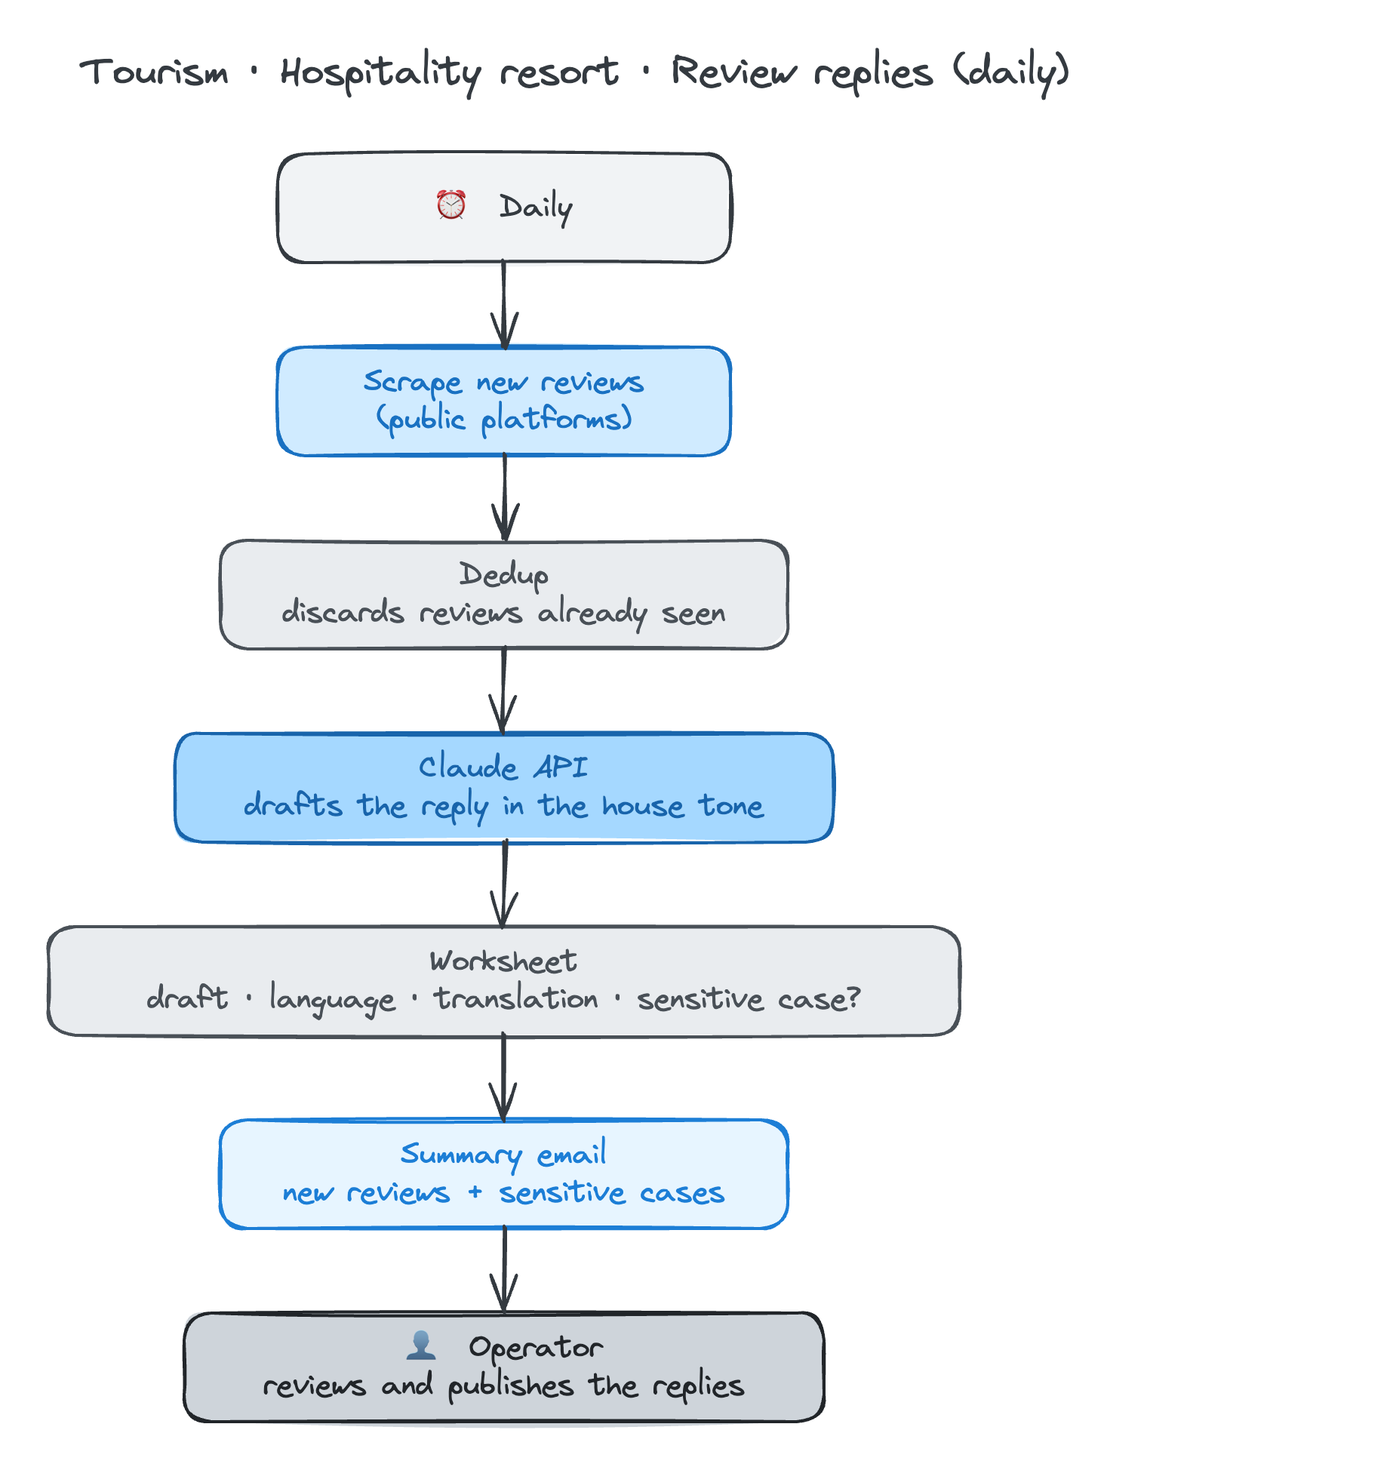
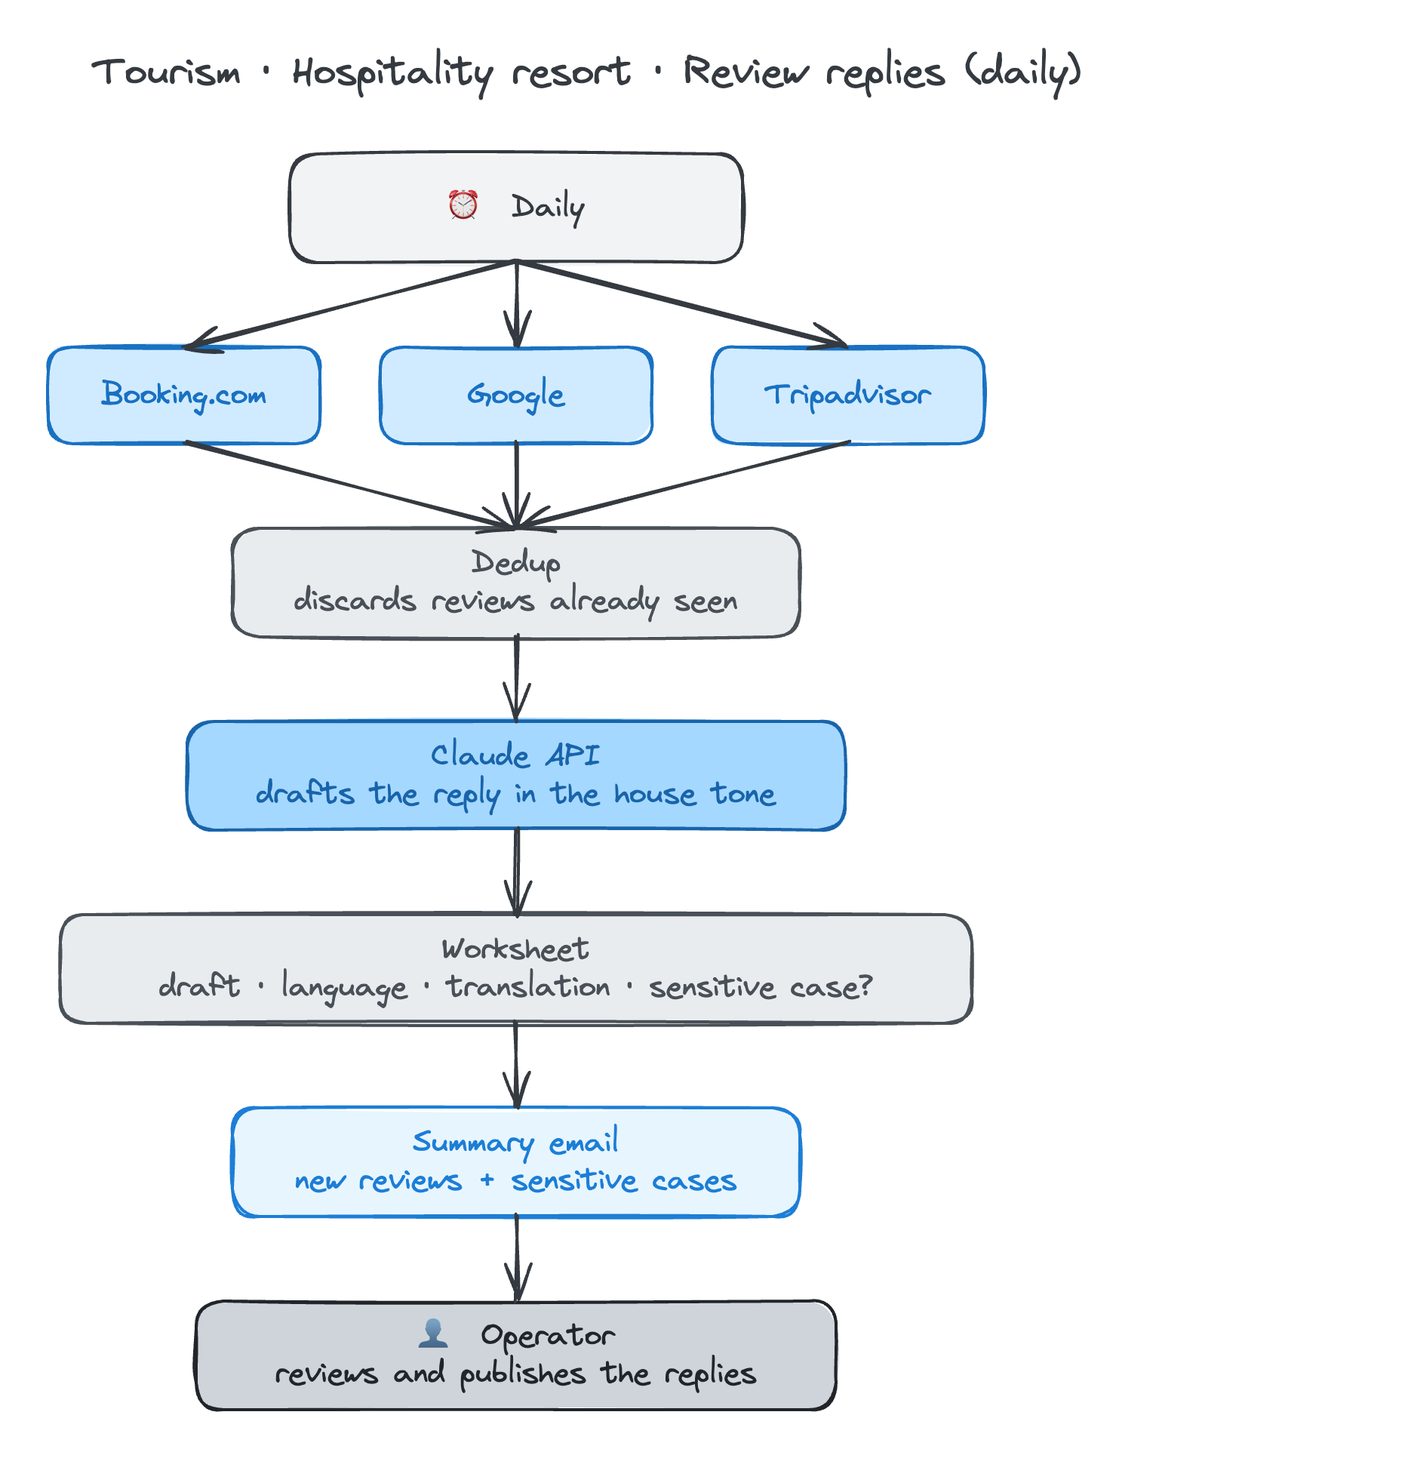
fix(landing): connettori Method, slogan/hero, Chiavi in mano, 3 fonti recensioni
- method.tsx: connettori tratteggiati ricalcolati su grid-cols-3 fisse,
  agganciati esattamente al bordo dei cerchi (prima "galleggiavano" scollegati)
- footer tagline EN + sottotitolo hero riscritti su richiesta di Federico
- "Chiave in mano" -> "Chiavi in mano" (titolo binario offerta + meta /servizi)
- caso risposte-recensioni-ai: testo e diagramma ora dicono esplicitamente
  Booking/Google/Tripadvisor come le 3 fonti monitorate (diagramma giornaliero
  ridisegnato hub-and-spoke)
- report-pelle-automatico: featured true (era false, per questo in home si
  vedevano solo 5/6 casi)
- pubblicato testo+featured via Sanity MCP (SANITY_API_WRITE_TOKEN locale non
  ha update su caseStudy, vedi PLAN.md); upload del nuovo PNG diagramma resta
  bloccato, PNG pronti in locale

diff --git a/components/landing/method.tsx b/components/landing/method.tsx
@@ -1,4 +1,3 @@
-import { Fragment } from "react";
 import type { Locale } from "@/lib/i18n";
 import { landing } from "@/lib/landing-content";
 
@@ -13,31 +12,40 @@ export function Method({ lang }: { lang: Locale }) {
 
         {/* Desktop: 3 nodi collegati da una linea di flusso, non 3 card isolate
             (riusa il linguaggio visivo di globals.css .wire, disegnato per
-            l'hero e mai usato). Ogni segmento è un SVG a sé, dimensionato dal
-            proprio spazio flex: nessuna percentuale calcolata a mano. */}
-        <div className="hidden md:flex md:items-start">
-          {steps.map((step, i) => (
-            <Fragment key={step.n}>
-              <div className="min-w-0 flex-1">
-                <div className="mb-4 flex h-12 w-12 items-center justify-center rounded-full border border-white/15 bg-white/[0.06] font-display text-lg font-semibold text-peri">
-                  {step.n}
-                </div>
-                <h3 className="mb-2 text-xl font-bold">{step.title[lang]}</h3>
-                <p className="max-w-[32ch] leading-relaxed text-white/65">
-                  {step.body[lang]}
-                </p>
+            l'hero e mai usato). Griglia a colonne UGUALI (non flex-1: con
+            colonne di larghezza diversa i connettori, messi in un elemento a
+            parte tra le colonne, finivano scollegati dai cerchi veri e
+            sembravano "tagliati"). Con colonne di uguale ampiezza il centro
+            di ogni cerchio è sempre a `(colonna * larghezza) + 1.5rem` (metà
+            di h-12/w-12): i due connettori sono quindi calcolati per
+            estendersi esattamente dal bordo destro di un cerchio al bordo
+            sinistro del successivo, niente di più. */}
+        <div className="relative hidden md:grid md:grid-cols-3">
+          {steps.map((step) => (
+            <div key={step.n} className="min-w-0 pr-6">
+              <div className="mb-4 flex h-12 w-12 items-center justify-center rounded-full border border-white/15 bg-white/[0.06] font-display text-lg font-semibold text-peri">
+                {step.n}
               </div>
-              {i < steps.length - 1 && (
-                <svg
-                  viewBox="0 0 100 4"
-                  preserveAspectRatio="none"
-                  className="mt-6 h-1 w-full min-w-8 flex-1"
-                  aria-hidden
-                >
-                  <line x1="0" y1="2" x2="100" y2="2" className="wire" />
-                </svg>
-              )}
-            </Fragment>
+              <h3 className="mb-2 text-xl font-bold">{step.title[lang]}</h3>
+              <p className="max-w-[32ch] leading-relaxed text-white/65">
+                {step.body[lang]}
+              </p>
+            </div>
+          ))}
+          {steps.slice(0, -1).map((_, i) => (
+            <svg
+              key={`wire-${i}`}
+              viewBox="0 0 100 4"
+              preserveAspectRatio="none"
+              aria-hidden
+              className="absolute top-6 h-1"
+              style={{
+                left: `calc(${i} * 100% / 3 + 3rem)`,
+                width: `calc(100% / 3 - 3rem)`,
+              }}
+            >
+              <line x1="0" y1="2" x2="100" y2="2" className="wire" />
+            </svg>
           ))}
         </div>
 

diff --git a/lib/landing-content.ts b/lib/landing-content.ts
@@ -92,13 +92,13 @@ export const landing = {
     titleMark: { it: "al lavoro", en: "work" },
     titleAfter: { it: "nella tua azienda.", en: "for your business." },
     body: {
-      it: "Costruiamo soluzioni concrete per smettere di perdere tempo e clienti. Poi ti insegniamo a gestirle ",
-      en: "We build concrete solutions that stop you from losing time and customers. Then we teach you to run them ",
+      it: "Colmiamo il divario tra le tecnologie AI più avanzate e le esigenze operative della tua azienda, con soluzioni AI su misura. Le integriamo nei tuoi flussi di lavoro e ti mettiamo in condizione di gestirle ",
+      en: "We bridge the gap between frontier AI technology and your specific operational requirements, with custom AI solutions. We integrate them into your workflows and empower you to run them ",
     },
-    bodyMark: { it: "da solo", en: "yourself" },
+    bodyMark: { it: "in autonomia", en: "independently" },
     bodyAfter: {
-      it: ", senza contratti che ti legano.",
-      en: ", with no contracts that tie you down.",
+      it: ", mantenendo il pieno controllo.",
+      en: ", keeping you in complete control.",
     },
     ctaPrimary: { it: "Parliamone →", en: "Let's talk →" },
     ctaSecondary: {
@@ -429,7 +429,7 @@ export const landing = {
       },
       {
         kind: { it: "soluzione", en: "solution" },
-        title: { it: "Chiave in mano", en: "Turnkey solution" },
+        title: { it: "Chiavi in mano", en: "Turnkey solution" },
         body: {
           it: "Progettiamo, costruiamo e consegniamo la soluzione. Formazione inclusa: la gestisci tu, senza dipendere da noi.",
           en: "We design, build and deliver the solution. Training included: you run it, without depending on us.",
@@ -711,7 +711,7 @@ export const landing = {
       it: {
         title: "Come lavoriamo insieme | flylabs.ai",
         description:
-          "I tre modi di lavorare con flylabs: consulenza spot, soluzione chiave in mano, formazione AI. Tempi, prezzi e cosa è incluso, detti prima.",
+          "I tre modi di lavorare con flylabs: consulenza spot, soluzione chiavi in mano, formazione AI. Tempi, prezzi e cosa è incluso, detti prima.",
       },
       en: {
         title: "How we work together | flylabs.ai",
@@ -1142,8 +1142,8 @@ export const landing = {
 
   footer: {
     tagline: {
-      it: "AI concreta per chi lavora",
-      en: "Concrete AI for people who work",
+      it: "AI all'avanguardia. Costruita sulle tue esigenze.",
+      en: "Cutting-Edge AI. Built Around Your Needs.",
     },
     nav: [
       { href: "", label: { it: "Home", en: "Home" } },

diff --git a/PLAN.md b/PLAN.md
@@ -1,7 +1,7 @@
 # PLAN.md — Roadmap e task in corso
 
 Documento vivo per coordinare il lavoro tra **Cesare** e **Federico** (e i rispettivi agenti).
-Regole d'uso in fondo al file. Ultimo aggiornamento: 2026-08-26 (Federico - Fase 10: audit pre-lancio + fix OG/404/analytics/footer).
+Regole d'uso in fondo al file. Ultimo aggiornamento: 2026-08-27 (Federico - rifiniture review: connettori Method, slogan/hero, "Chiavi in mano", 3 fonti recensioni, fix homepage 6/6, +3 use case).
 
 ---
 
@@ -31,9 +31,10 @@ Regole d'uso in fondo al file. Ultimo aggiornamento: 2026-08-26 (Federico - Fase
 | 5 | **Chatbot AI sul sito**, formato sul materiale del sito (richiesta Federico 2026-07-18) | Federico | PR #34 | ✅ mergiata e LIVE: **embed del GPT Chatbot SaaS** di Federico (opzione A). Chatbot provisionato via API `gptchatbot_api` (UUID `30d345be…`, agente bilingue IT/EN, 9 pagine di flylabs.ai come sorgenti RAG). Widget via `next/script` in `app/[locale]/layout.tsx`. Dominio autorizzato in dashboard da Federico |
 | 6 | **Carosello dei casi di successo in home** + rewording (richiesta Federico 2026-07-18) | Federico | PR #37 | ✅ mergiata e LIVE. Fix successivi in PR #38 (autoplay + contatore a intervallo) |
 | 7 | **Arricchimento contenuti**: +6 FAQ, +3 card "Cosa costruiamo", offerta con tempi/incluso + pagina `/servizi` (richiesta Federico 2026-07-18) | Federico | PR #38 | ✅ mergiata e LIVE. Fix carosello (autoplay/hover/contatore) inclusi nella stessa PR; lampeggio SSR del contatore fixato in PR #40 |
-| 8 | **Rifiniture carosello + wording + diagramma bici** (richiesta Federico 2026-07-19): card intera su mobile (niente peek tagliato), "l'artista" → "lo studio" nel caso Close Tattoo (testi + diagramma), diagramma bici ridisegnato hub-and-spoke (3 siti → 1 assistente → 4 canali) | Federico | PR #41 | 🔨 |
-| 9 | **Redesign layout landing** (skill `design-taste-frontend`, richiesta Federico 2026-08-26): rework strutturale, brand invariato — bento in "Cosa costruiamo", flusso connesso (`.wire`) in "Come lavoriamo", header impilato in "Offerta", FAQ → accordion, scroll-reveal (`motion`), em-dash → `-`/`\|` nelle stringhe visibili | Federico | PR #44 | 🔨 |
-| 10 | **Audit pre-lancio** (richiesta Federico 2026-08-26, "tra due settimane lo pubblichiamo sui social"): OG image dinamiche (generiche + per caso studio), favicon/apple-icon, 404 globale brandizzata, `error.tsx`/`loading.tsx` mancanti su `[locale]`, Vercel Web Analytics + Speed Insights, footer con nav/P.IVA, fix connettore Method e wrap metrica lunga, pulizia asset boilerplate | Federico (agente autonomo) | PR #45 | 🔨 |
+| 8 | **Rifiniture carosello + wording + diagramma bici** (richiesta Federico 2026-07-19): card intera su mobile (niente peek tagliato), "l'artista" → "lo studio" nel caso Close Tattoo (testi + diagramma), diagramma bici ridisegnato hub-and-spoke (3 siti → 1 assistente → 4 canali) | Federico | PR #41 | ✅ mergiata e LIVE |
+| 9 | **Redesign layout landing** (skill `design-taste-frontend`, richiesta Federico 2026-08-26): rework strutturale, brand invariato — bento in "Cosa costruiamo", flusso connesso (`.wire`) in "Come lavoriamo", header impilato in "Offerta", FAQ → accordion, scroll-reveal (`motion`), em-dash → `-`/`\|` nelle stringhe visibili | Federico | PR #44 | ✅ mergiata e LIVE |
+| 10 | **Audit pre-lancio** (richiesta Federico 2026-08-26, "tra due settimane lo pubblichiamo sui social"): OG image dinamiche (generiche + per caso studio), favicon/apple-icon, 404 globale brandizzata, `error.tsx`/`loading.tsx` mancanti su `[locale]`, Vercel Web Analytics + Speed Insights, footer con nav/P.IVA, fix connettore Method e wrap metrica lunga, pulizia asset boilerplate | Federico (agente autonomo) | PR #45 | ✅ mergiata e LIVE |
+| 11 | **Rifiniture review + 3 nuovi use case** (richiesta Federico 2026-08-27): connettori Method scollegati dai cerchi, nuovo slogan/sottotitolo hero, "Chiavi in mano", 3 fonti recensioni (Booking/Google/Tripadvisor) in testo+diagramma, fix homepage 6/6 casi, +use case formazione AI in aula / second brain / WeGrocery | Federico (agente autonomo) | — | 🔨 |
 
 ## Decisioni prese
 
@@ -69,11 +70,18 @@ Regole d'uso in fondo al file. Ultimo aggiornamento: 2026-08-26 (Federico - Fase
 - **Audit pre-lancio (2026-08-26, Fase 10)**: verifica di tutto il sito (non solo landing) in vista della pubblicazione sui social. Trovati e fixati: `og:image` assente (nessuna immagine su LinkedIn/WhatsApp quando si condivide il link) → generata via `next/og` (`ImageResponse`), una generica per pagina in `app/[locale]/opengraph-image.tsx` (font bundled `Geist` di default, niente fetch di font esterni per non dipendere dalla rete a build time) e una specifica per caso studio in `lavori/[slug]/opengraph-image.tsx` con la metrica più grande in evidenza; favicon moderna (`app/icon.tsx`, `app/apple-icon.tsx`, lettera "f" su fondo ink, coerente col logo); 404 grezza di Next → **`app/global-not-found.tsx`** + `experimental.globalNotFound` in `next.config.ts` (feature Next 16 pensata esattamente per il nostro caso: root layout su un segmento dinamico top-level `[locale]`, quindi niente `app/layout.tsx` dove comporre un `not-found.tsx` classico). **Limite noto**: copre le route davvero sconosciute e i path con prefisso di lingua valido ma sotto-rotta inesistente (es. `/it/pagina-a-caso`, il caso reale più comune da link rotti); NON copre un singolo segmento in cima senza prefisso lingua (es. `flylabs.ai/xyz` senza `/it`/`/en`) perché lì il match avviene dentro `[locale]/layout.tsx` via `notFound()` esplicito, un meccanismo diverso da "nessuna route trovata" che `global-not-found` intercetta — verificato empiricamente con `next start` (in `next dev` il behavior a volte non riflette la build di produzione, testare sempre con build+start prima di fidarsi). Aggiunti anche `app/[locale]/error.tsx` e `app/[locale]/loading.tsx` (mancavano per home/servizi/stack/privacy, solo `lavori/` li aveva). **Vercel Web Analytics + Speed Insights** aggiunti al root layout (cookieless, nessun banner necessario). **Footer** riscritto: nav (Home/Lavori/Servizi/Stack/Privacy) + due nuovi campi opzionali su `siteSettings` (`legalName`, `vatNumber` — P.IVA/ragione sociale, obbligo di legge per un sito aziendale italiano), footer li nasconde finché restano vuoti su Sanity (stesso pattern di `contactEmail`/`socialLinks`). Fix grafici: connettore SVG tra i 3 step di "Come lavoriamo" era `w-12` fisso invece di riempire lo spazio tra i cerchi (sembrava un moncone) → `flex-1`; metrica singola nelle card di `/lavori` (`text-6xl` senza `whitespace-nowrap`) andava a capo su valori lunghi ("1 sessione") → `text-5xl` + `whitespace-nowrap`, stesso trattamento già usato nel carosello home. Rimossi asset boilerplate mai referenziati in `public/` (`next.svg`, `vercel.svg`, `globe.svg`, `file.svg`, `window.svg`, `hero-automation.png` non usato — resta solo `hero-automation-2.png`, quello vero). **Non toccato** (richiede dati reali che l'agente non ha): title `siteSettings` su Sanity ha ancora l'em-dash (fix di contenuto, 2 minuti in Studio); greeting inglese del chatbot GPT SaaS (si configura sulla dashboard `app.gptchatbot.it`, fuori da questo repo); P.IVA/ragione sociale da compilare in Studio; CTA di prenotazione diretta (serve un URL Calendly/TidyCal reale); testimonianze clienti (servono quote vere). Merge di PR non fatto in autonomia (tocca `main` condiviso): resta da decidere l'ordine di merge tra #41/#42/#44/questa PR.
 - **Seconda passata di polish su richiesta di Federico (2026-08-26, "più libertà, più cool")**: aggiunta interattività mirata, non generalizzata a caso per caso — nav che si restringe leggermente allo scroll (`useScroll`/`useTransform` di `motion`, mai `window.addEventListener('scroll')`), tilt 3D sull'immagine hero al passaggio del mouse (`components/landing/hero-visual.tsx`), CTA primaria dell'hero "magnetica" verso il cursore (`magnetic-cta.tsx`, unico bottone magnetico in pagina di proposito), spotlight che segue il cursore nel box "Perché Flylabs" e nella sezione CTA finale (`spotlight.tsx`, puro CSS via custom property, niente re-render), striscia loghi "I tool che usiamo" trasformata in marquee continuo full-bleed (`logo-marquee.tsx`, unico marquee della pagina, animazione CSS pura in `globals.css`). Tutto gated su `prefers-reduced-motion` e/o `pointerType !== "mouse"` dove serve. Nessun nuovo pacchetto (tutto su `motion`, già aggiunto nella Fase 9).
 
+- **Connettori di "Come lavoriamo" scollegati dai cerchi (2026-08-27)**: la riga tratteggiata viveva in un elemento flex separato tra due colonne `flex-1` di larghezza diversa (dettata dal testo, non fissa) — il cerchio numerato stava all'estrema sinistra della sua colonna, ma il connettore nel "buco" tra colonne finiva a galleggiare nel vuoto, scollegato da entrambi i cerchi ("tagliato" nello screenshot di Federico). Fix: righe uguali via `md:grid md:grid-cols-3` (non più `flex-1`, quindi ogni colonna ha sempre la stessa larghezza W) + 2 SVG assoluti la cui posizione è calcolata (`left: i*100%/3 + 3rem`, `width: 100%/3 - 3rem`, dove 3rem = metà di `h-12 w-12`): il connettore i va così esattamente dal bordo destro del cerchio i al bordo sinistro del cerchio i+1, indipendentemente da quanto testo c'è sotto. Verificato via misura DOM (`getBoundingClientRect`), non screenshot: il renderer del Browser pane ha dato più volte un frame vuoto/scurito su questa sessione pur con `document.hidden:false`, sintomo diverso da quelli già noti — root cause non indagata, bypassato verificando via JS diretto sul DOM (bordi dei cerchi = bordi delle linee, al pixel).
+- **Nuovo slogan + sottotitolo hero (2026-08-27, richiesta Federico)**: footer tagline EN "Concrete AI for people who work" → **"Cutting-Edge AI. Built Around Your Needs."** (IT: "AI all'avanguardia. Costruita sulle tue esigenze."). Sottotitolo hero (sotto l'H1) riscritto sul testo fornito da Federico ("We bridge the gap between frontier AI technology..."), con traduzione IT naturale mantenendo la parola sottolineata (`bodyMark`) sul concetto di autonomia/controllo, non più su "da solo/yourself".
+- **"Chiave in mano" → "Chiavi in mano" (2026-08-27)**: sostituito ovunque compare in italiano (titolo del binario offerta + meta description di `/servizi`); l'inglese "Turnkey solution" non cambia.
+- **Caso recensioni: 3 fonti esplicite, Booking/Google/Tripadvisor (2026-08-27, richiesta Federico)**: testo (problema/soluzione/racconto, IT+EN) e diagramma aggiornati per dire esplicitamente che la pipeline scarica e controlla le recensioni da tutte e tre le piattaforme, non solo "pagina pubblica" generica. Diagramma giornaliero ridisegnato hub-and-spoke a mano (non `vchain`): il trigger si dirama su 3 box fonte (Booking.com/Google/Tripadvisor) che riconvergono su un unico step di dedup, poi la catena verticale consueta. Script sorgente: `flylabs-brain/01_Projects/isola-dei-gabbiani-recensioni/diagrams/build/gen_diagrams.py`. `_key` del diagramma bumpato `d1`→`d3` (vedi nota sotto sull'asset-refresh) per non collidere con `d2` (loop settimanale, invariato).
+- **`SANITY_API_WRITE_TOKEN` in `.env.local` non basta più per l'importer (scoperto 2026-08-27)**: `import-case-studies.mjs` fallisce con `Insufficient permissions; permission "update" required". Causa quasi certa: il commento nello stesso `.env.local` dice che quel token è **solo per il form contatti** (creazione `contactSubmission`), non un token Editor generico — probabilmente non ha mai avuto diritti su `caseStudy`, o li ha persi. Bypass usato in questa sessione: **Sanity MCP** (autenticato via OAuth come account reale di Federico, permessi pieni) per `patch_documents`/`create_documents` + `publish_documents` — funziona per tutti i campi testo/booleani. **Limite**: l'upload di un nuovo asset immagine (diagrammi) NON è possibile né da MCP (`dataset_assets_upload` dà solo istruzioni per la CLI, non carica) né dalla Sanity CLI in questa sessione (`sanity login` richiede un flusso OAuth browser interattivo che l'agente non può completare). Il diagramma aggiornato del caso recensioni (3 fonti) è quindi **pronto in locale** (PNG rigenerati, JSON aggiornato) ma **non ancora caricato su Sanity** finché Federico non rigenera/corregge lo scope del write token o fa `npx @sanity/cli@latest login` lui stesso una volta.
+
 ## Task aperti (fuori roadmap)
 
 - [x] Use case **noleggio bici multi-sito** (ex "bike rental Tucson"): scheda anonimizzata `content/case-studies/assistenti-noleggio-multisito.json` (PR #35, metriche 100+ msg/giorno e 3 siti). Ricerca da email nel vault `sbf` (`clients/bike-tucson/`), NON in flylabs-brain (lavoro solo di Federico via GPT Chatbot SaaS). `featured: false` (non tocca la home 3/3): flippare in Studio se lo si vuole in evidenza
 - [x] Use case **Close Tattoo** (form sito → WhatsApp promo casuale → chatbot WhatsApp): scheda anonimizzata `content/case-studies/form-whatsapp-promo-conversione.json` (PR #35, metriche 2x riscatto promo, 3 lingue). Ricostruito dal chatbot "Mario" su gptchatbot.it + descrizione di Federico; nota in `sbf` (`clients/close-tattoo.md`). `featured: false`. > TODO Federico: confermare tool outbound (Make/Brevo?) per il badge, e ri-condividere il `_chat.txt` (non era su disco) se servono più dettagli
 - [ ] **Pre-lancio social (Fase 10)**: azioni manuali che l'agente non può fare da solo — (1) title di `siteSettings` su Sanity ha ancora l'em-dash, correggere in Studio; (2) greeting del chatbot GPT SaaS è in inglese su un sito IT, cambiare su `app.gptchatbot.it`; (3) compilare `legalName`/`vatNumber` (P.IVA) su `siteSettings` perché il footer li mostri; (4) decidere l'ordine di merge tra le PR aperte (#41, #42, #44, #45) prima di andare live
+- [ ] **Diagramma caso recensioni (3 fonti) non ancora caricato su Sanity**: PNG IT/EN già rigenerati in `content/case-studies/assets/`, JSON già punta a `_key: "d3"` — manca solo l'upload asset perché `SANITY_API_WRITE_TOKEN` non ha diritti di update su `caseStudy` (vedi Decisioni). Federico: o sistema lo scope del token, o `npx @sanity/cli@latest login` una volta, poi `node .claude/skills/use-case-publish/scripts/import-case-studies.mjs`
 - [ ] **Vercel: env var mancanti sull'ambiente Preview** (causa più probabile dei preview rossi su tutte le PR) — solo Cesare può verificare/sistemare dal suo account: Settings → Environment Variables → abilitare Preview
 - [x] Sostituire i numeri placeholder delle work card con dati reali dei clienti → fatto: 3 casi `featured` reali su Sanity, le card hardcoded non compaiono più
 - [x] Seedare i `caseStudy` con dati REALI: 3/3 use case importati e LIVE (2026-07-15). Link `/lavori` dalla home: fatto il 2026-07-16 (issue #13, vedi Decisioni)
